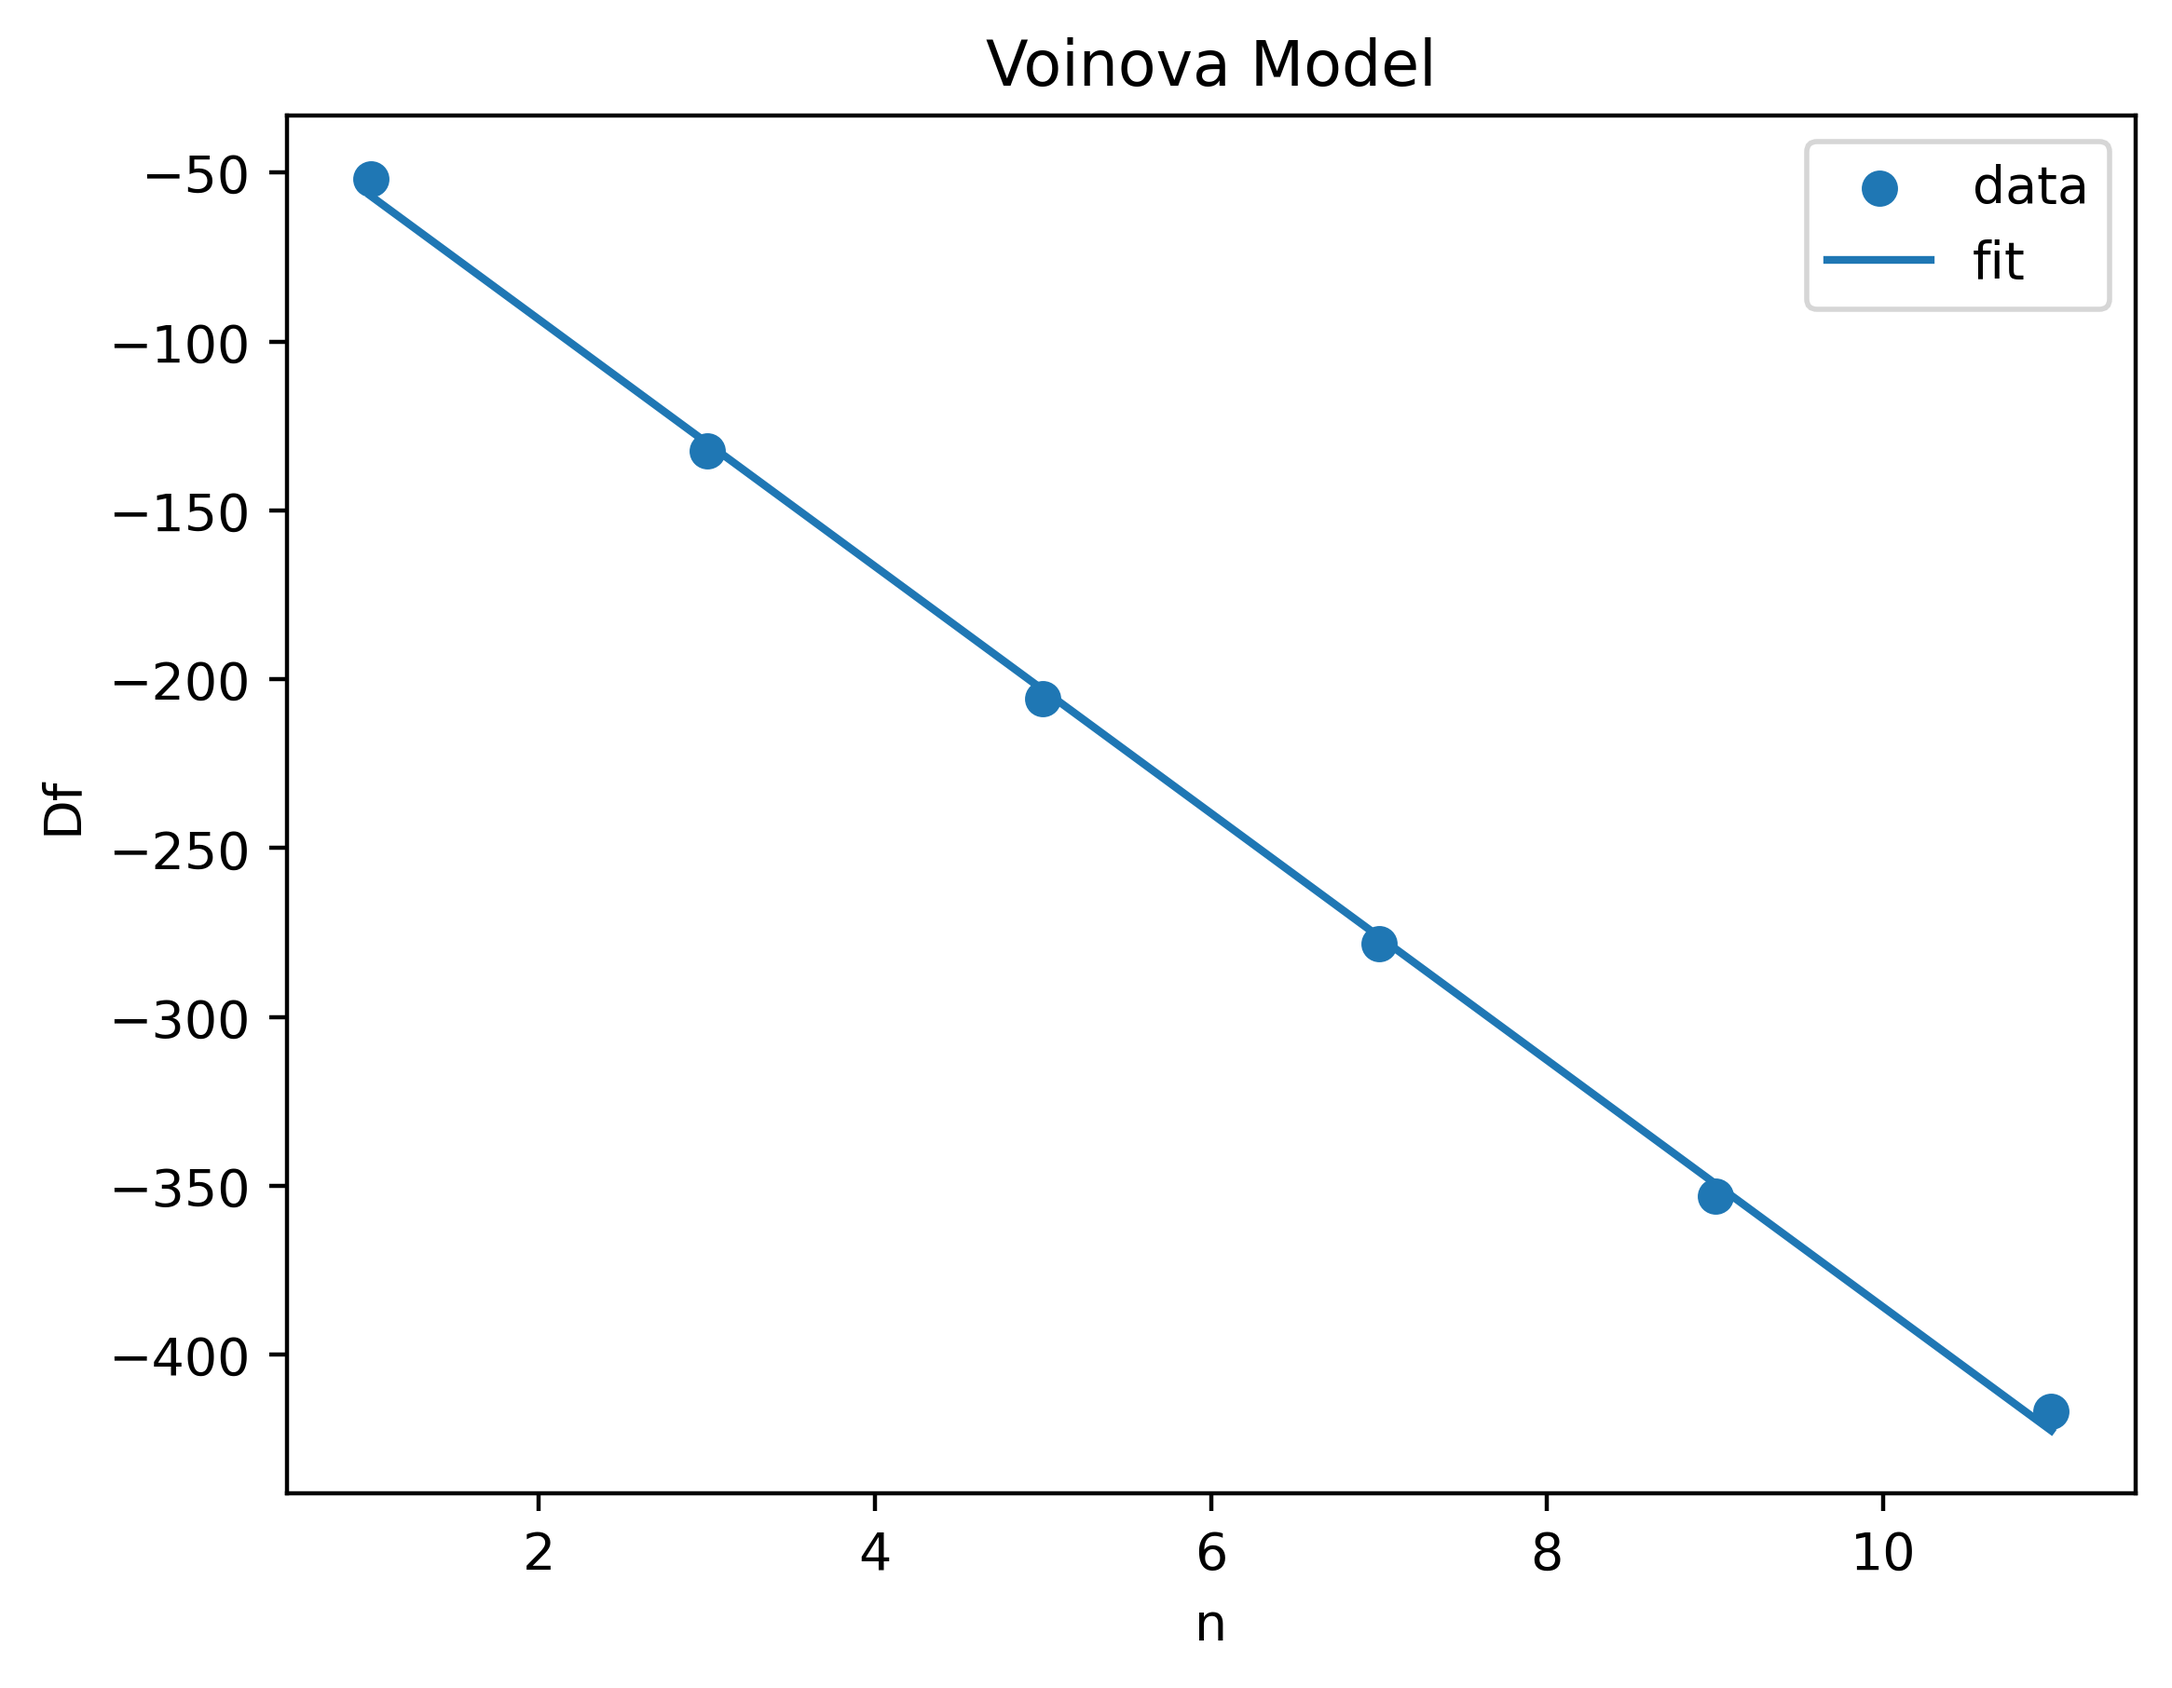
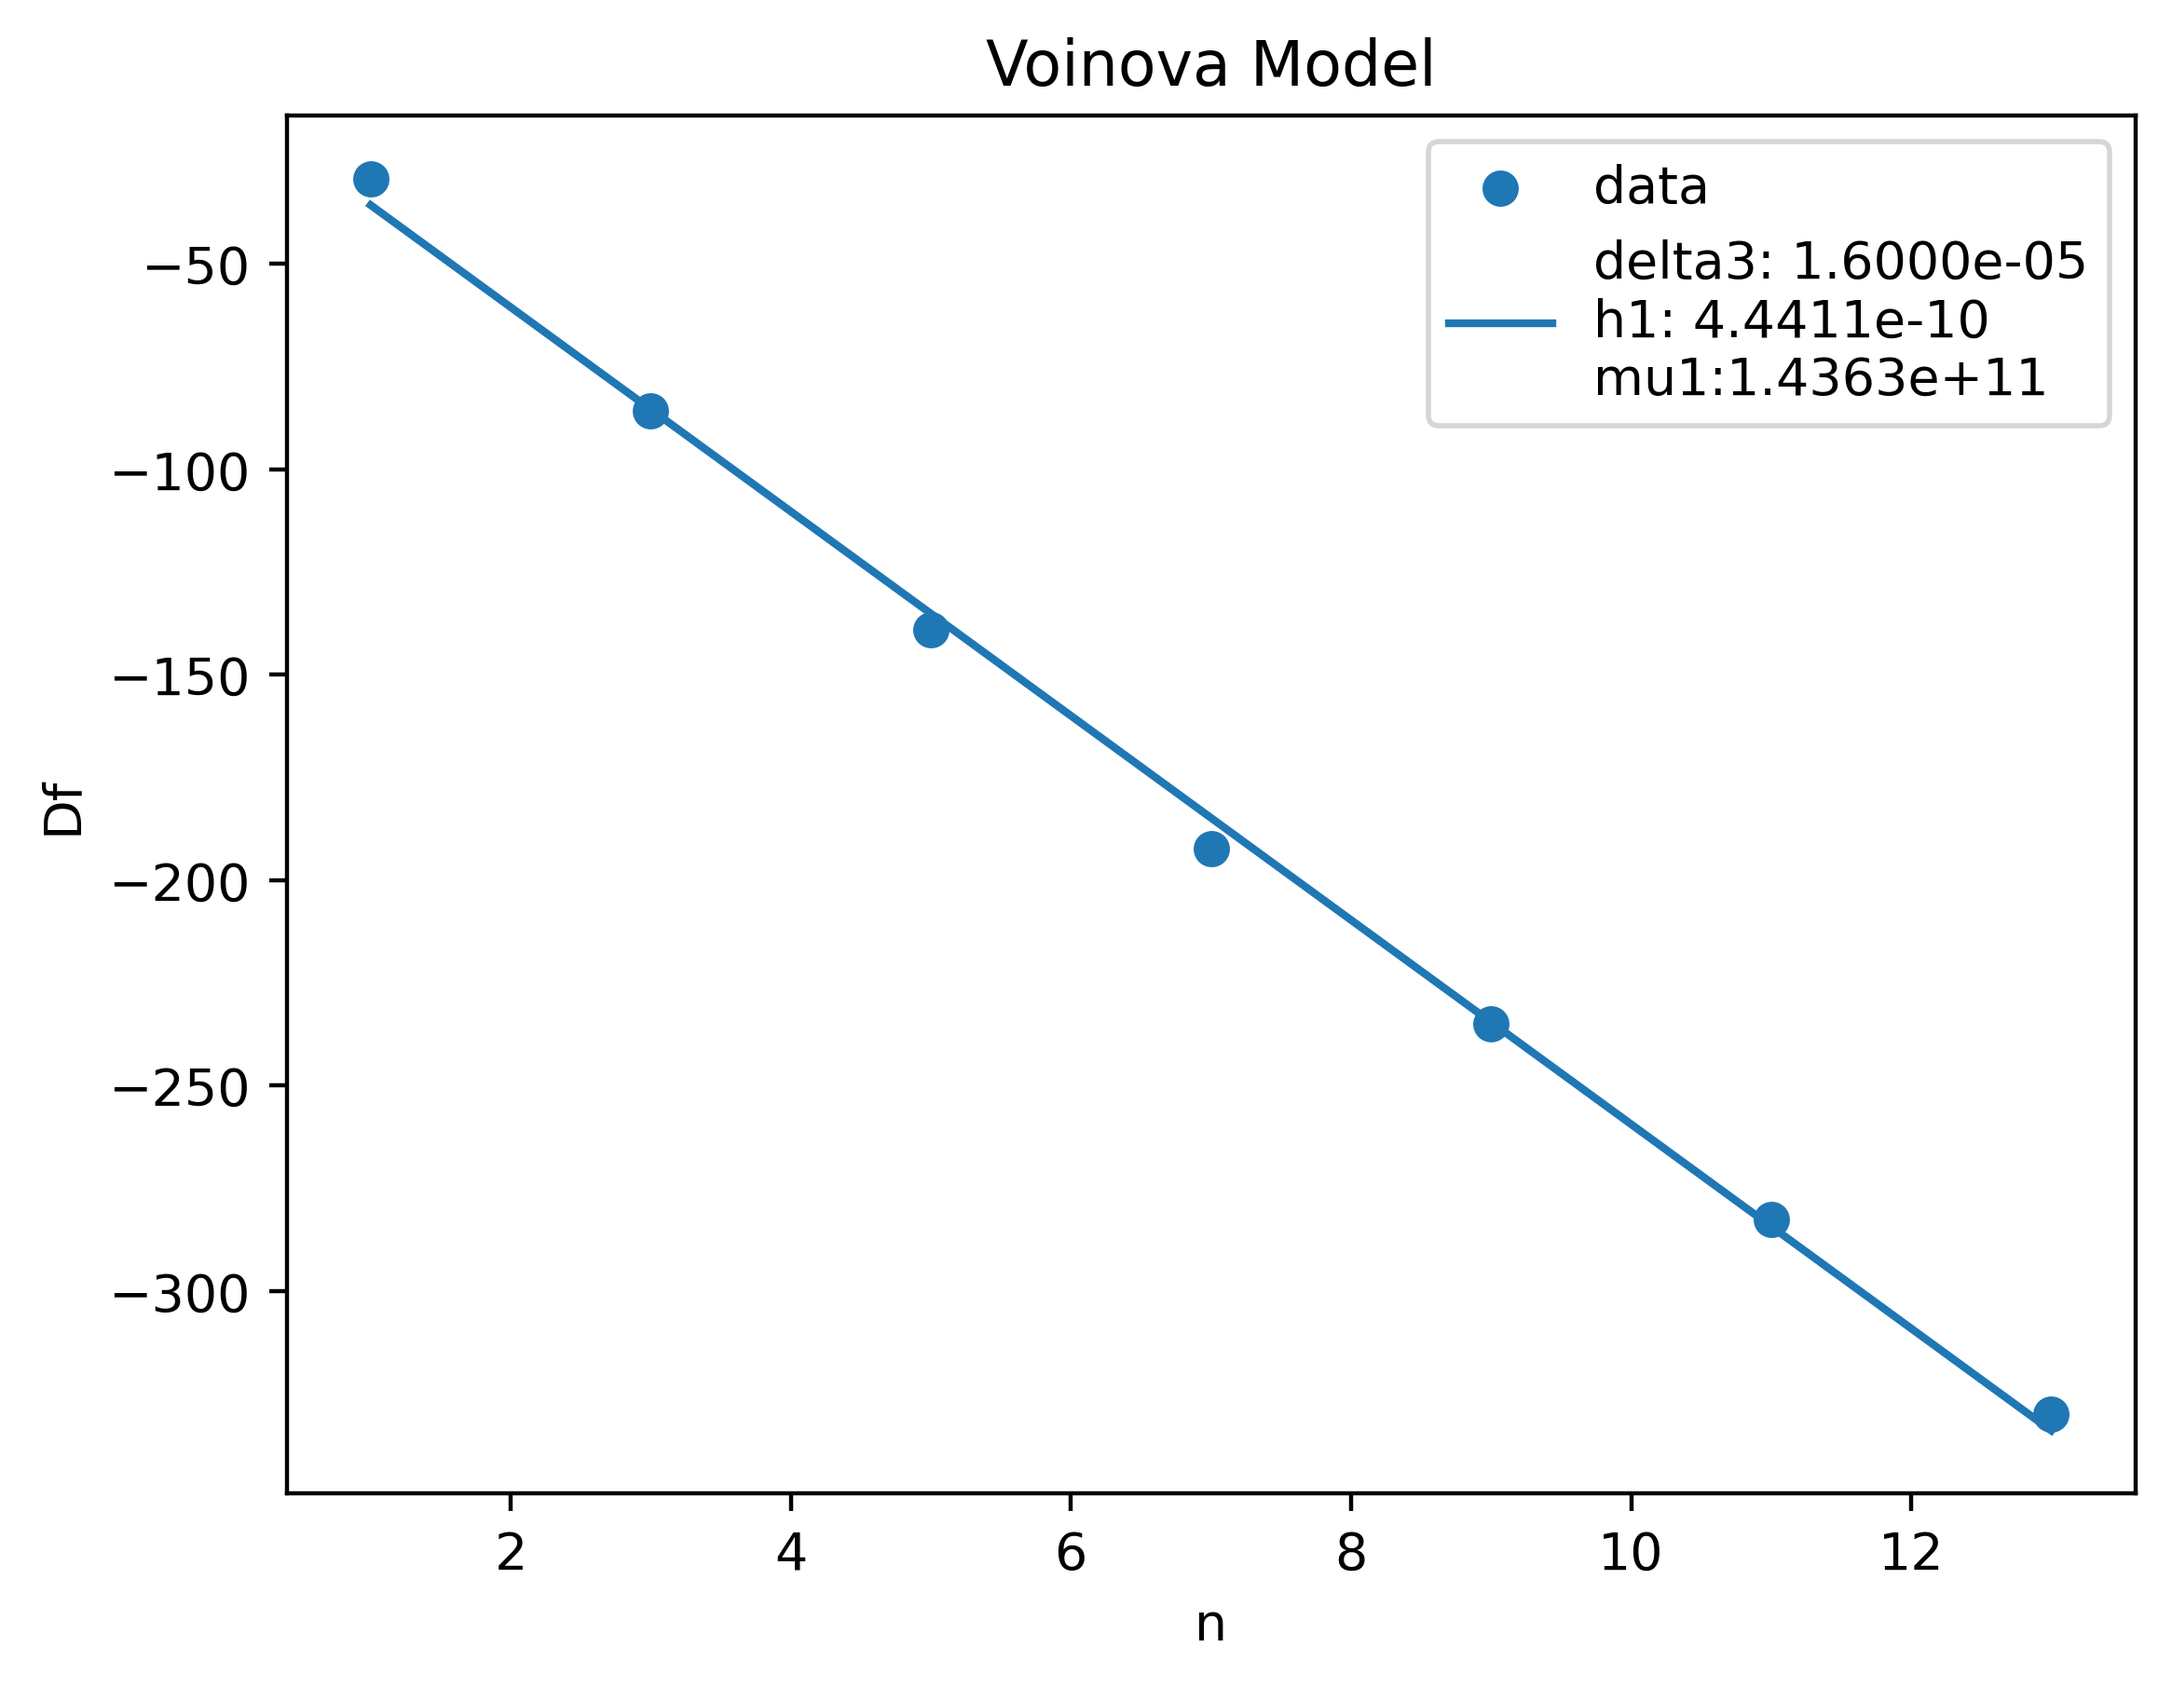
voinova works, however numbers still off, need meeting

diff --git a/voinova.py b/voinova.py
@@ -16,7 +16,7 @@ formula originates from Voinova paper, however we are ignoring the sum for now a
 we are replacing omega with 2pi * nf0
 '''
 
-def voinova_equation(n, delta3, mu1, h1):
+def voinova_equation(n, delta3, h1, mu1):
     rho0 = 2650 # density of quartz CONSTANT
     h0 = 3.3698e-4 # thickness of quartz CONSTANT
     eta3 = 10e-2 # viscosity of bulk fluid CONSTANT
@@ -33,12 +33,12 @@ def voinova_equation(n, delta3, mu1, h1):
     return Df
 
 def get_data():
-    df = pd.read_csv("selected_ranges/all_stats_rf.csv")
+    df = pd.read_csv("raw_data/Fn at 75 ug per ml on func Au at 25C_STA.txt", sep='\t')
     df = df[(df!= 0).all(1)] # remove freq rows with 0 (unselected rows)
     print(df.head)
-    xdata = df['overtone'].values
-    xdata = [get_num_from_string(x) for x in xdata]
-    ydata = df['Dfreq_mean'].values
+    xdata = df.index.values
+    #xdata = [get_num_from_string(x) for x in xdata]
+    ydata = df.iloc[:,0].values
     return xdata, ydata
 
 def model():
@@ -60,7 +60,7 @@ def model():
     print('BANANA', Df_fit)
 
     plt.scatter(n, Df, label='data')
-    plt.plot(n, Df_fit, label='fit')
+    plt.plot(n, Df_fit, label=f'delta3: {delta3:.4e}\nh1: {h1_fit:.4e}\nmu1:{mu1_fit:.4e}')
     plt.title("Voinova Model")
     plt.xlabel("n")
     plt.ylabel("Df")

diff --git a/README.md b/README.md
@@ -165,6 +165,11 @@ if it is not, please comment out the 2 lines below
 
 ### CHANGE LOG
 
+5/26
+- began implementation for voinova model in separate script 'voinova.py'
+- voinova model runs and produces an accurate plot when compared to the one done manually, however numbers are off
+    - need to meet next week to discuss units/orders of magnitude of values
+
 5/25
 - bug fix, C calculations for calibration data
 
